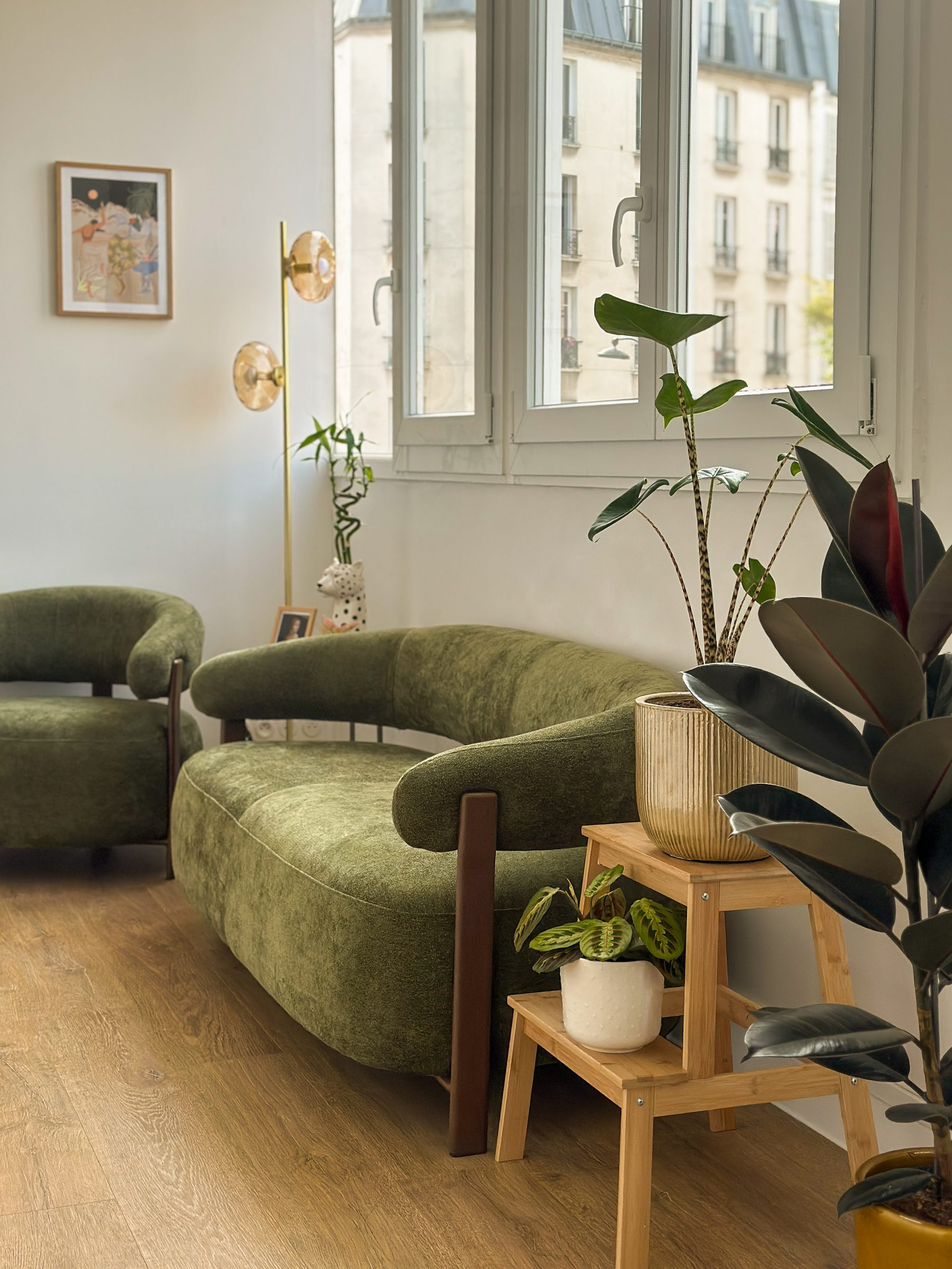
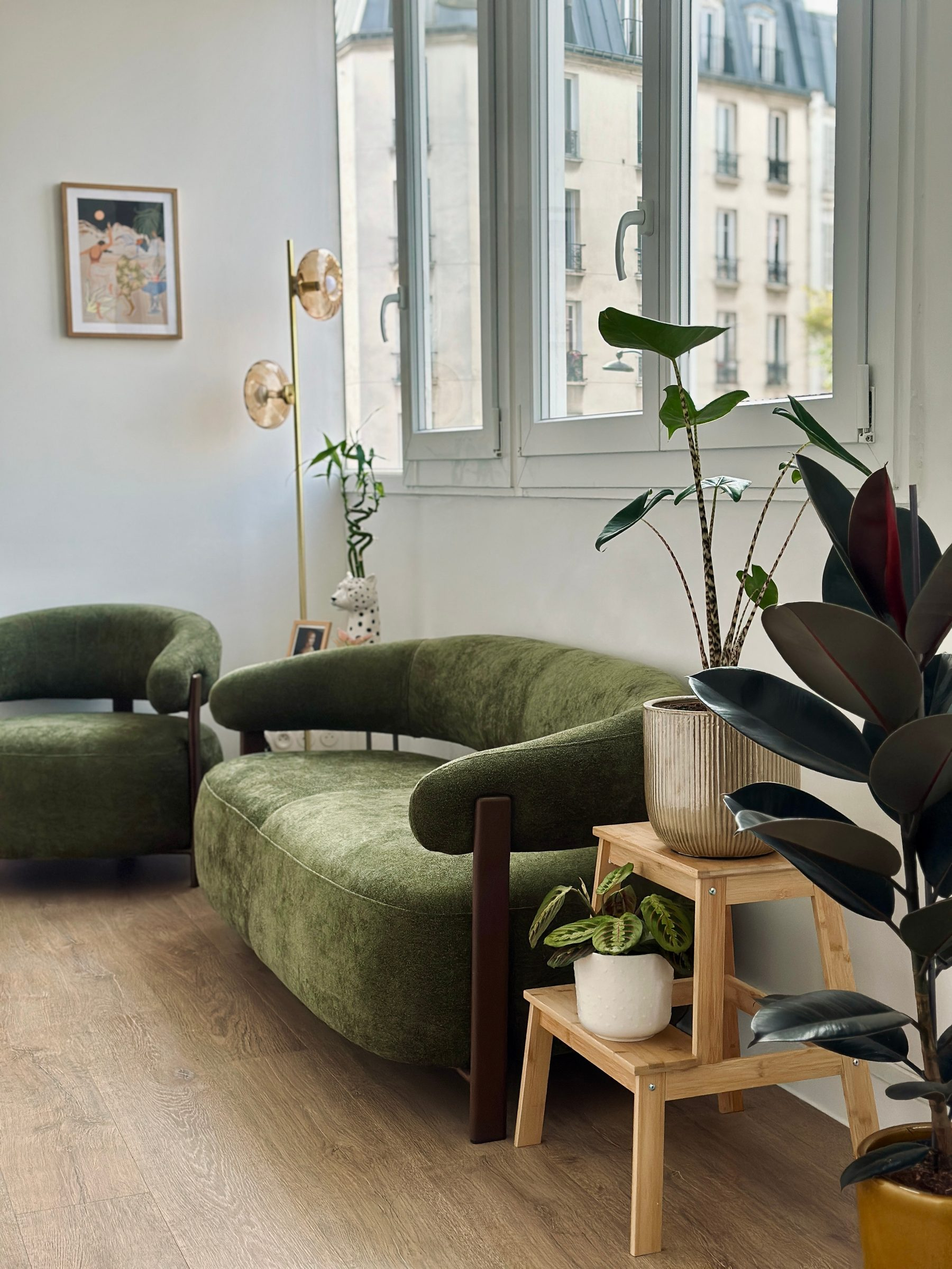
Morning changes

diff --git a/content/care.md b/content/care.md
@@ -1,4 +1,5 @@
 ---
+title: Care
 pageKey: care
 seo:
   title: Soins après tatouage · Helena de Carvalho
@@ -9,14 +10,12 @@ seo:
 ---
 media:
   type: image
-  src: /img/studio/studio_2.jpg
+  src: /img/minified/IMG-6352.jpeg
   alt: Soins après tatouage
 titleLines:
   - Prendre soin
   - de votre tatouage
-eyebrow: Soins · Cicatrisation · Conseils
-subcopy: Un bon soin après la séance garantit un résultat durable et une belle
-  cicatrisation.
+eyebrow: Soins · Cicatrisation
 ---
 ::
 
@@ -25,12 +24,14 @@ subcopy: Un bon soin après la séance garantit un résultat durable et une bell
 ::content-care-section
 ---
 avoid:
-  - Soleil direct et UV pendant toute la cicatrisation
-  - Bains prolongés, piscine, mer ou jacuzzi
-  - Gratter, frotter ou décoller les peaux
-  - Vêtements trop serrés sur la zone tatouée
-  - Crèmes parfumées ou produits alcoolisés sur le tatouage
-  - Activité physique intense les premiers jours
+  - Gratter ou arracher les croûtes
+  - Plonger dans une piscine ou la mer pendant 3 semaines
+  - Exposer au soleil pendant la cicatrisation
+  - Les saunas et les hammams
+  - Les bains et les douches prolongées
+  - Utiliser des produits parfumés ou alcoolisés sur la zone
+  - Les activités physiques intenses pendant la première semaine, notamment la
+    salle de sport
 normal:
   - Rougeur légère les premières 24–48h
   - Légère enflure autour du tatouage
@@ -38,26 +39,38 @@ normal:
   - La peau qui pèle et se renouvelle
   - Un aspect légèrement terne avant la cicatrisation complète
 steps:
-  - title: "Jours 1–3 : le film protecteur"
-    body: Gardez le film protecteur (Saniderm ou cellophane) en place pendant les 24
-      à 72 heures recommandées. Évitez de le retirer avant l'heure conseillée.
-  - title: Premier lavage
-    body: Retirez délicatement le film, lavez le tatouage à l'eau tiède avec un
-      savon doux sans parfum. Rincez abondamment, séchez en tamponnant avec une
-      serviette propre (ne frottez pas).
-  - title: Hydratation quotidienne
-    body: Appliquez une fine couche de crème cicatrisante (type Bepanthen ou Tattoo
-      Goo) 2 à 3 fois par jour. Évitez les crèmes parfumées et les corps gras.
-  - title: "Semaines 2–4 : phase de pelage"
-    body: Ne grattez pas et ne décollez pas les peaux qui se renouvellent. C'est
-      normal — la peau pelée fait partie du processus de cicatrisation.
+  - title: Les premiers jours
+    body: Pendant les 48 à 72 premières heures, il est normal que votre tatouage
+      soit rouge, sensible et légèrement gonflé.
+  - title: Cellophane ou Seconde Peau
+    body: Retirez le cellophane au plus tard 4 heures après la séance (ou dès votre
+      retour à la maison). Si vous portez un pansement « second skin », vous
+      pouvez le garder jusqu’à 24 heures et le retirer délicatement sous l’eau
+      tiède. Une fois la protection retirée, lavez votre tatouage avec un savon
+      au pH neutre et séchez-le en tapotant doucement avec du papier absorbant,
+      sans frotter.
+  - title: Après le retrait de la protection
+    body: Les 3 semaines qui suivent le retrait du cellophane ou du pansement «
+      second skin » sont très importantes. Pendant cette période, lavez votre
+      tatouage avec un savon au pH neutre, puis séchez-le délicatement avec du
+      papier absorbant, toujours sans frotter.
+  - title: Hydratation
+    body: L’hydratation commence à partir du troisième jour. Appliquez la crème
+      recommandée par votre tatoueur.euse 2 à 3 fois par jour pendant une
+      semaine, puis au moins une fois par jour pendant une vingtaine de jours.
+      Une fine couche suffit. N’oubliez pas de toujours bien vous laver les
+      mains avant de toucher votre tatouage.
+  - title: La cicatrisation
+    body: Pendant la cicatrisation, votre tatouage peut peler, former de petites
+      croûtes et provoquer des démangeaisons, comme après un coup de soleil.
+      C’est tout à fait normal. Évitez de gratter, frotter ou retirer les peaux
+      et les croûtes, afin de ne pas ralentir la cicatrisation.
   - title: Protection solaire
-    body: Une fois cicatrisé, protégez toujours votre tatouage du soleil avec un
-      écran solaire indice 50+. Le soleil est l'ennemi principal des tatouages
-      fineline.
+    body: Une fois cicatrisé, protégez votre tatouage avec un écran solaire SPF50+
+      avant toute exposition au soleil.
 whenToContact: Contactez-moi si vous observez une infection (pus, rougeur
   importante, chaleur excessive) ou si vous avez le moindre doute sur la
   cicatrisation de votre tatouage.
 ---
-Votre tatouage vient d'être réalisé — il est maintenant temps de bien le soigner pour un résultat optimal. Suivez ces étapes pour les 2 à 4 semaines de cicatrisation.
+Votre tatouage est terminé ! Les premiers jours sont essentiels pour favoriser une bonne cicatrisation. Voici quelques conseils pour prendre soin de votre tatouage pendant cette période.
 ::

diff --git a/content/process.md b/content/process.md
@@ -10,7 +10,7 @@ seo:
 ---
 media:
   type: image
-  src: /img/studio/studio_1.jpg
+  src: /img/IMG-0363.jpeg
   alt: Studio de tatouage Helena de Carvalho
 titleLines:
   - Comment ça
@@ -23,26 +23,9 @@ subcopy: De votre première prise de contact jusqu'au tatouage terminé — voic
 
 :content-divider
 
-::content-intro
----
-heading: "2"
-spacing: normal
-title: Un processus simple et bienveillant
----
-Réserver un tatouage ne devrait pas être stressant. Voici comment nous allons travailler ensemble pour créer quelque chose qui vous ressemble.
-::
-
-:content-divider
-
 ::content-section{columns="1" width="3xl"}
-  :::content-step
-  ---
-  number: "01"
-  ---
-  Envoyez-moi un message sur WhatsApp avec votre idée : la zone souhaitée, la taille approximative et quelques références d'images si vous en avez. Pas de panique si vous n'avez pas encore de projet précis !
-
-  #title
-  Contactez-moi
+  :::content-step{number="01" title="Contactez-moi"}
+  Envoyez-moi un message sur WhatsApp avec votre idée : la zone souhaitée, la taille approximative en centimètres et quelques images de référence, si vous en avez. Et pas de panique si votre projet n’est pas encore très précis : je suis là pour vous aider à le définir ensemble.
   :::
 
   :::content-step
@@ -55,52 +38,15 @@ Réserver un tatouage ne devrait pas être stressant. Voici comment nous allons 
   On échange sur votre projet
   :::
 
-  :::content-step
-  ---
-  number: "03"
-  ---
-  Je crée votre tatouage sur mesure. Le design définitif vous sera présenté le jour de votre séance — cette approche garantit une création vraiment adaptée à votre corps.
-
-  #title
-  Création du design
+  :::content-step{number="03" title="Création du design"}
+  Je prépare le dessin de votre tatouage avant le rendez-vous et je vous le présenterai le jour de votre séance. Nous prendrons ensuite tout le temps nécessaire pour le modifier ensemble si besoin, afin que tout soit parfaitement validé avant de commencer le tatouage.
   :::
 
-  :::content-step
-  ---
-  number: "04"
-  ---
-  Vous êtes accueilli(e) dans mon studio privé. Vous êtes le seul client pendant votre séance — une atmosphère calme et sereine pour une expérience agréable.
-
-  #title
-  La séance
+  :::content-step{number="04" title="La séance"}
+  Vous serez accueilli·e à Maison Poire dans un espace calme et chaleureux, et votre tatouage sera réalisé dans une cabine privée. Vous pouvez bien sûr venir accompagné·e si vous le souhaitez.
   :::
-::
 
-:content-divider
-
-::content-faq-section
----
-items:
-  - question: Combien coûte un tatouage ?
-    answer: Les tarifs dépendent de la taille, de la complexité et de la durée de la
-      séance. Contactez-moi avec votre projet pour un devis personnalisé.
-  - question: Faut-il verser un acompte ?
-    answer: Oui, un acompte est demandé pour confirmer votre rendez-vous. Il sera
-      déduit du prix total de votre tatouage.
-  - question: Combien de temps faut-il pour cicatriser ?
-    answer: La cicatrisation complète prend en général 2 à 4 semaines. Évitez le
-      soleil, les bains prolongés et les crèmes parfumées pendant cette période.
-  - question: Puis-je choisir moi-même le design ?
-    answer: Absolument ! Si vous avez une idée précise, partagez-la moi. Je peux
-      aussi vous proposer des designs en m'inspirant de vos envies.
-  - question: Est-ce que vous tatouez en couleur ?
-    answer: Je me spécialise dans le tatouage fineline en noir et gris. Pour les
-      couleurs subtiles ou le style botanique en couleur, n'hésitez pas à me
-      demander.
-  - question: Quelle zone du corps est la plus douloureuse ?
-    answer: La douleur varie selon les personnes et les zones. Les zones osseuses
-      (côtes, chevilles, colonne) sont généralement plus sensibles. Je vous
-      accompagne tout au long de la séance.
-title: Questions fréquentes
----
+  :::content-step{number="05" title="Cicatrisation"}
+  À la fin de votre séance, je vous expliquerai tous les soins à suivre pour favoriser une bonne cicatrisation. Après 30 jours, vous pourrez m’envoyer une photo de votre tatouage cicatrisé afin que nous puissions vérifier ensemble si de petites retouches sont nécessaires.
+  :::
 ::

diff --git a/content/contact.md b/content/contact.md
@@ -1,4 +1,5 @@
 ---
+title: Contact
 pageKey: contact
 seo:
   title: Contact · Helena de Carvalho
@@ -6,21 +7,7 @@ seo:
 ---
 
 ::content-intro{title="Parlons de votre projet"}
-Chaque tatouage commence par une conversation. Partagez votre idée, la zone souhaitée et toute référence qui vous inspire — je reviendrai vers vous rapidement.
-::
-
-:content-divider
-
-::content-practical-info
----
-address: 28, Rue Nicolaï, 75012 Paris
-hours: |-
-  Lundi – Samedi
-  10h – 19h
-instagram: https://instagram.com/helena.tattoo
-mapEmbed: https://www.google.com/maps/embed?pb=!1m18!1m12!1m3!1d2626.0!2d2.3912!3d48.8466!2m3!1f0!2f0!3f0!3m2!1i1024!2i768!4f13.1!3m3!1m2!1s0x0%3A0x0!2s28+Rue+Nicola%C3%AF%2C+75012+Paris!5e0!3m2!1sfr!2sfr!4v1
-whatsapp: https://wa.me/33600000000
----
+Chaque tatouage commence par un échange sur WhatsApp. Parlez-moi de votre idée, de la zone souhaitée et envoyez-moi les références qui vous inspirent. Je reviendrai vers vous rapidement pour discuter de votre projet.
 ::
 
 ::content-whatsapp-cta
@@ -28,7 +15,17 @@ whatsapp: https://wa.me/33600000000
 label: Réserver via WhatsApp
 size: sm
 spacing: compact
-whatsapp: https://wa.me/33600000000
+whatsapp: https://wa.me/message/OXUF5MYCLX3QH1
 width: 7xl
+---
+::
+
+::content-practical-info
+---
+address: 28, Rue Nicolaï, 75012 Paris
+hours: Sur rendez-vous uniquement
+instagram: https://instagram.com/carvalho_helena
+mapEmbed: https://www.google.com/maps/embed?pb=!1m18!1m12!1m3!1d2626.0!2d2.3912!3d48.8466!2m3!1f0!2f0!3f0!3m2!1i1024!2i768!4f13.1!3m3!1m2!1s0x0%3A0x0!2s28+Rue+Nicola%C3%AF%2C+75012+Paris!5e0!3m2!1sfr!2sfr!4v1
+whatsapp: https://wa.me/33600000000
 ---
 ::

diff --git a/content/index.md b/content/index.md
@@ -81,12 +81,10 @@ Tu envisages un tatouage ou un cover-up dans cet univers, mais tu ne sais pas en
   :::content-cta-card
   ---
   href: /book-online
-  label: Réserver maintenant
+  label: Réserver un tatouage
+  title: Réserver maintenant
   ---
-  Studio privé, séance individuelle sur rendez-vous. Contactez-moi pour votre projet.
-
-  #title
-  Réserver un tatouage
+  Tatouage sur rendez-vous. Contactez-moi pour discuter de votre projet.
   :::
 ::
 
@@ -95,10 +93,10 @@ Tu envisages un tatouage ou un cover-up dans cet univers, mais tu ne sais pas en
 ::content-gallery-section
 ---
 images:
-  - src: /img/studio/IMG-8317.jpeg
-  - src: /img/studio/IMG-0296.jpeg
-  - src: /img/studio/IMG-0304.jpeg
-  - src: /img/studio/IMG-0322.jpeg
+  - src: /img/studio/IMG-8317.JPEG
+  - src: /img/studio/IMG-1520.JPEG
+  - src: /img/studio/IMG-1284.JPEG
+  - src: /img/studio/IMG-0304.JPEG
 accent: le studio
 columns: "3"
 number: "03"

diff --git a/content/about.md b/content/about.md
@@ -49,10 +49,10 @@ Depuis la fin de l’année 2025, je me suis également spécialisée dans les c
   :::
 
   :::content-card
-  Chaque tatouage est unique, créé spécialement pour vous après échange sur votre projet.
+  Des projets personnalisés pour transformer ou recouvrir un ancien tatouage.
 
   #title
-  Sur mesure
+  Cover-up
   :::
 ::
 
